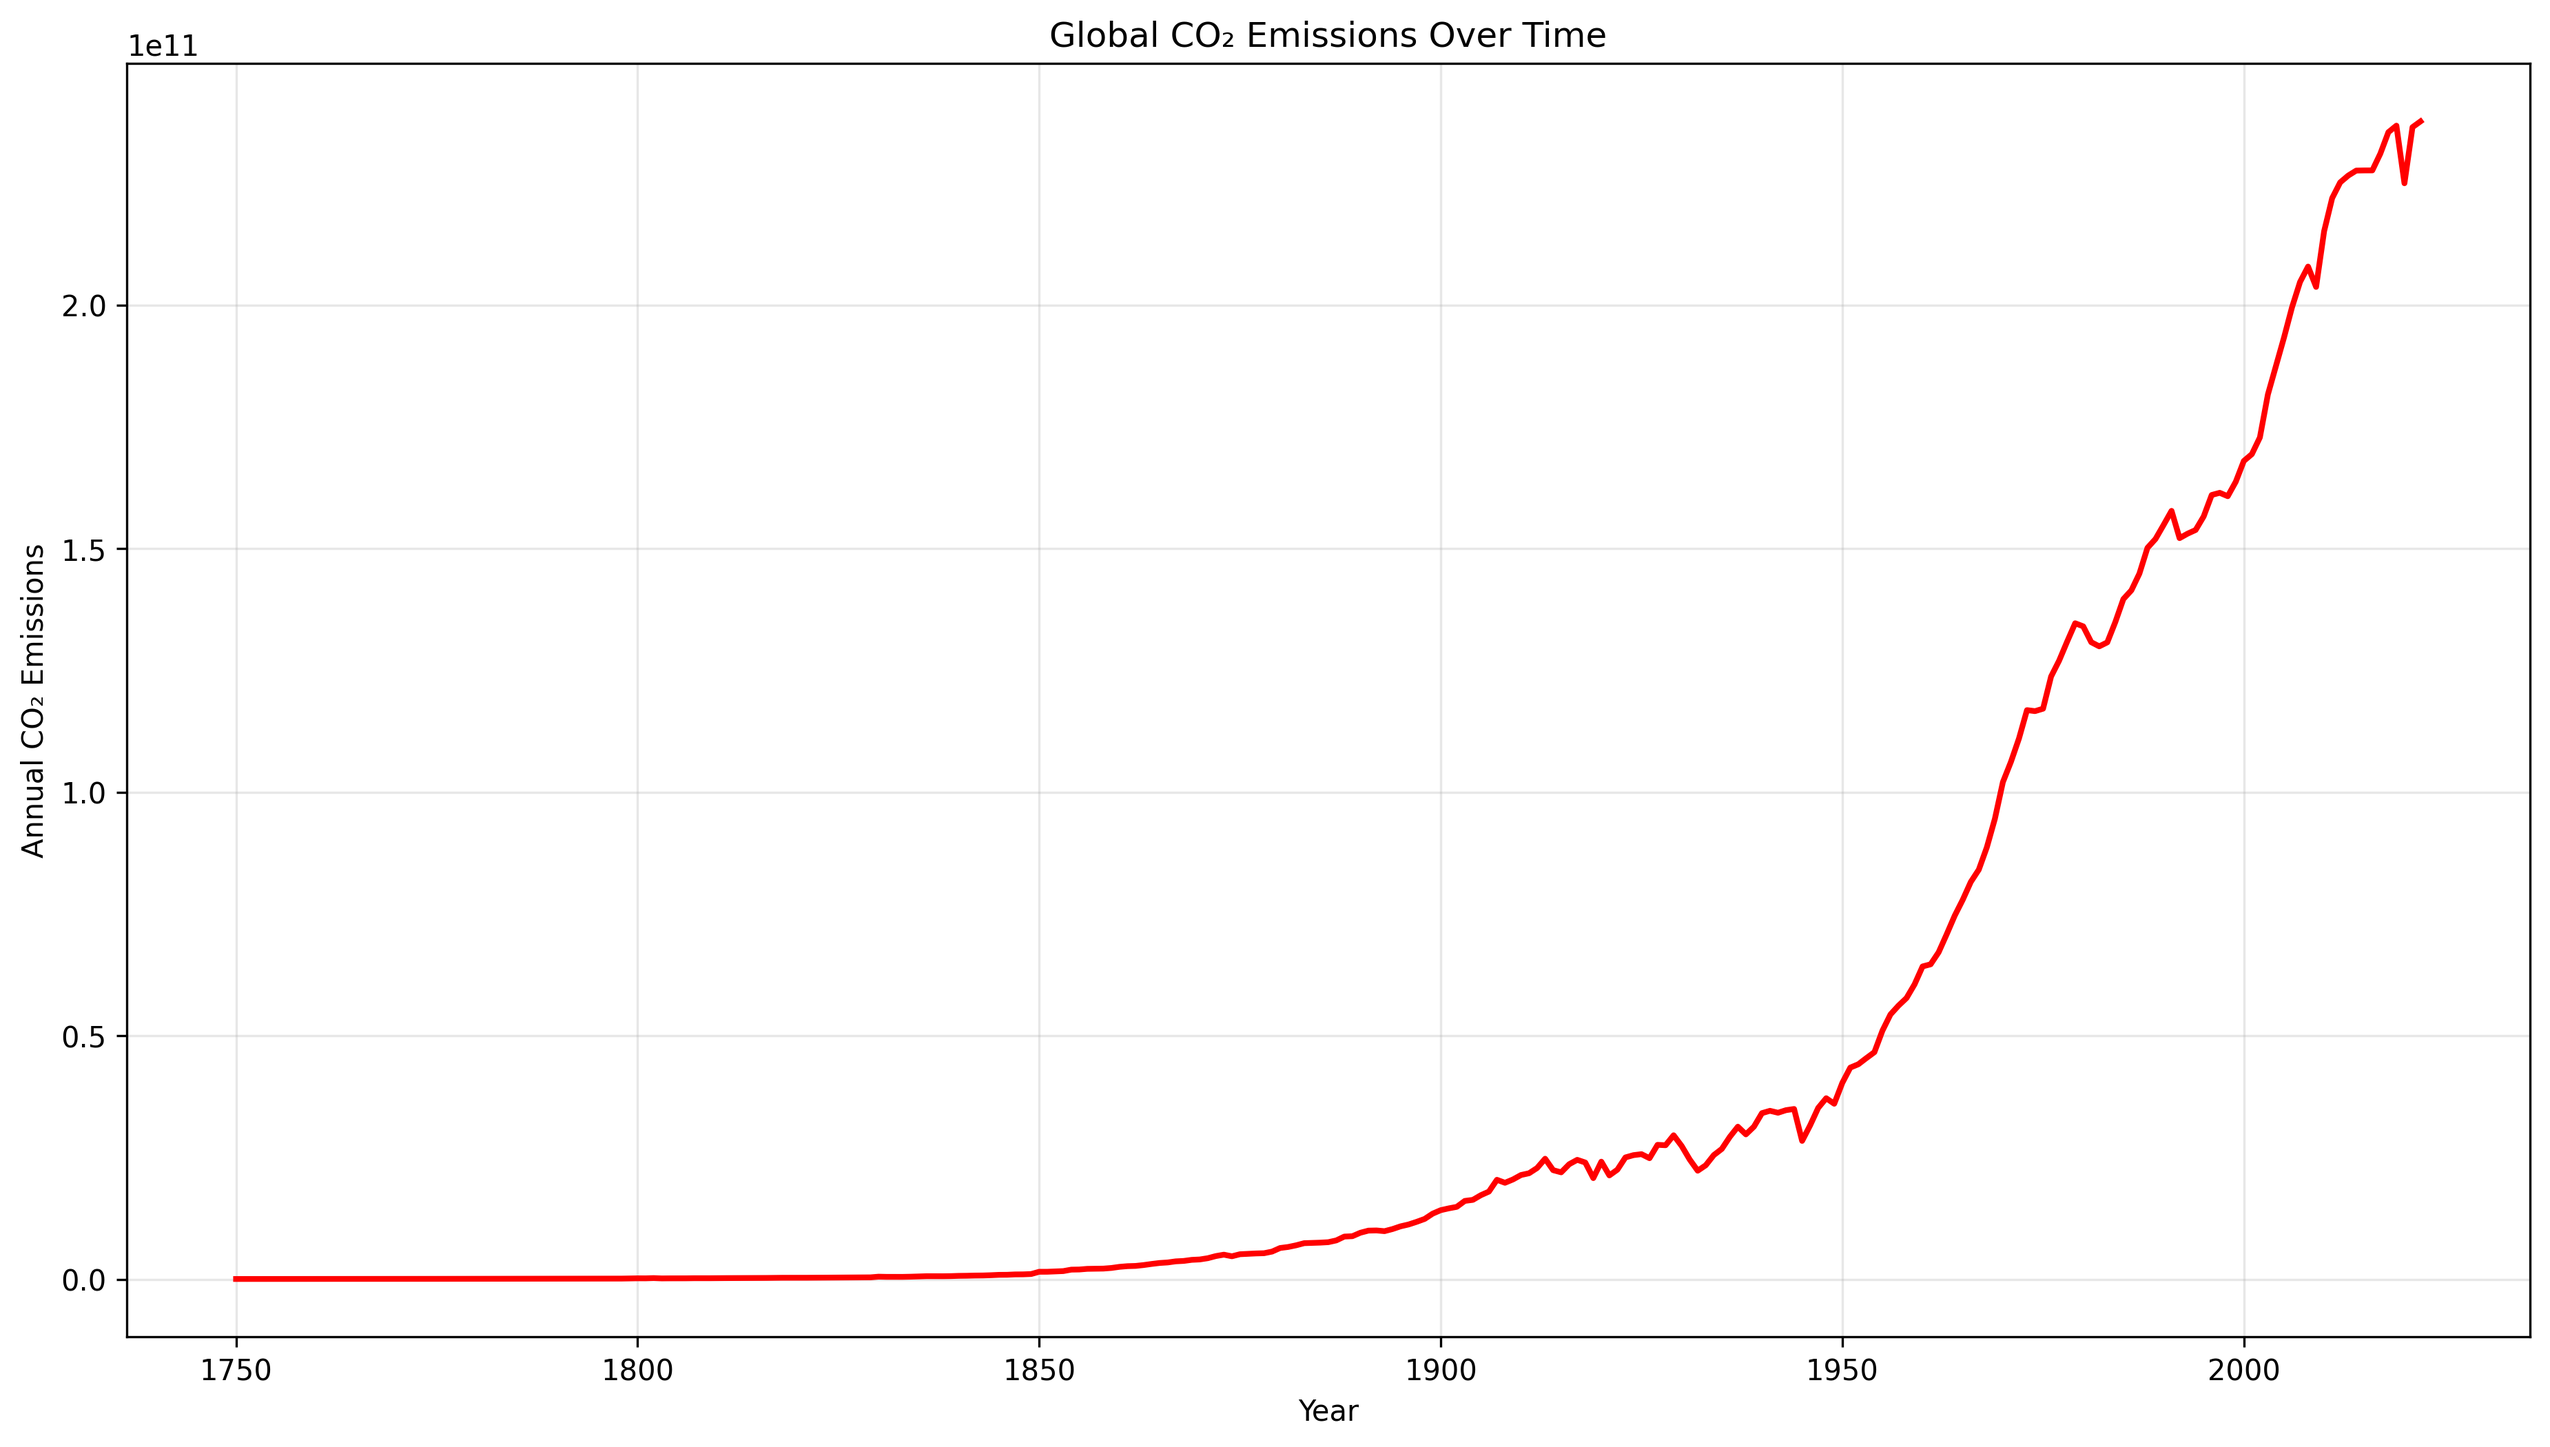
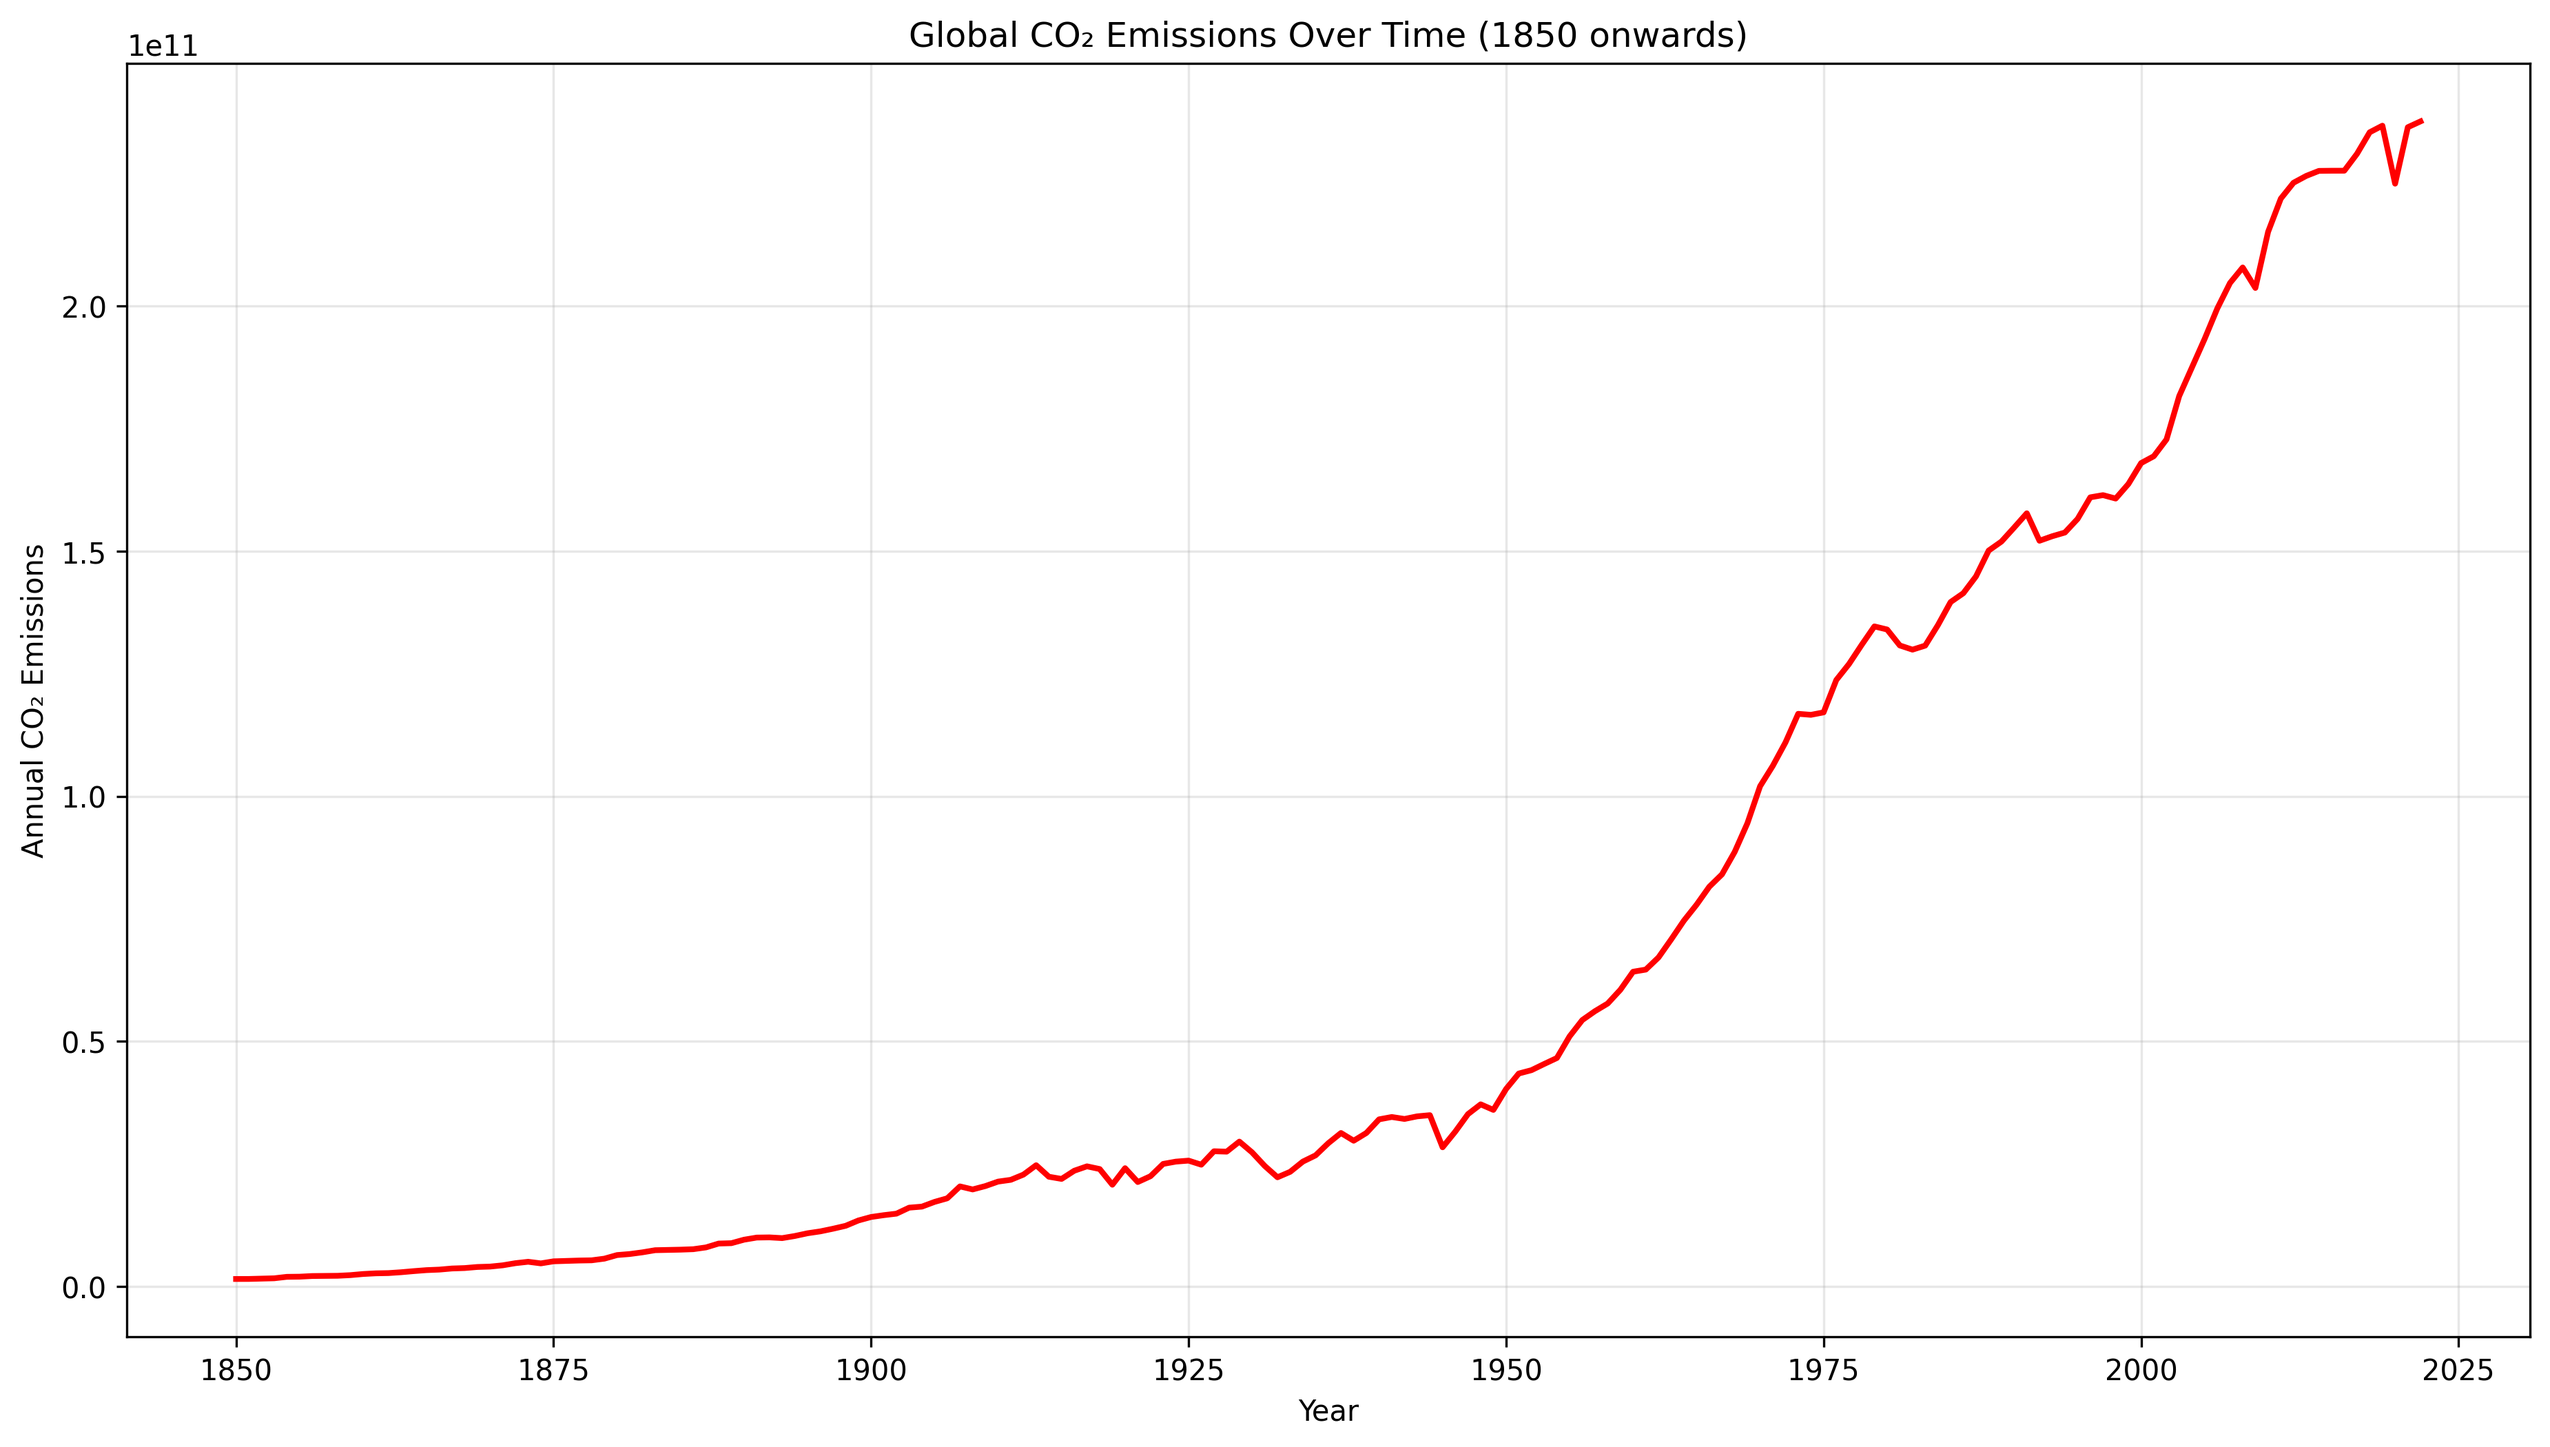
Updated charts with RA

diff --git a/tempCO2.py b/tempCO2.py
@@ -100,6 +100,9 @@ def prepare_emissions_data(emissions_df):
 
 # [Rest of the functions remain the same as in your current script]
 def create_temperature_plot(yearly_temp):
+    # Filter data from 1850 onwards
+    yearly_temp = yearly_temp[yearly_temp['Year'] >= 1850].copy()
+    
     plt.figure(figsize=(15, 8))
     
     # Define a color palette for continents
@@ -144,7 +147,7 @@ def create_temperature_plot(yearly_temp):
     plt.axhline(y=baseline_temp, color='gray', linestyle=':', 
                 label='Pre-industrial baseline (1850-1900)', alpha=0.5)
     
-    plt.title('Average Temperature by Continent Over Time')
+    plt.title('Average Temperature by Continent Over Time (1850 onwards)')
     plt.xlabel('Year')
     plt.ylabel('Average Temperature (°C)')
     plt.legend(bbox_to_anchor=(1.05, 1), loc='upper left')
@@ -153,12 +156,15 @@ def create_temperature_plot(yearly_temp):
     return plt
 
 def create_emissions_plot(yearly_emissions):
+    # Filter data from 1850 onwards
+    yearly_emissions = yearly_emissions[yearly_emissions['Year'] >= 1850].copy()
+    
     plt.figure(figsize=(15, 8))
     
     plt.plot(yearly_emissions['Year'], yearly_emissions['Annual CO₂ emissions'], 
             color='red', linewidth=2)
     
-    plt.title('Global CO₂ Emissions Over Time')
+    plt.title('Global CO₂ Emissions Over Time (1850 onwards)')
     plt.xlabel('Year')
     plt.ylabel('Annual CO₂ Emissions')
     plt.grid(True, alpha=0.3)
@@ -166,6 +172,10 @@ def create_emissions_plot(yearly_emissions):
     return plt
 
 def create_combined_plot(yearly_temp, yearly_emissions):
+    # Filter data from 1850 onwards
+    yearly_temp = yearly_temp[yearly_temp['Year'] >= 1850].copy()
+    yearly_emissions = yearly_emissions[yearly_emissions['Year'] >= 1850].copy()
+    
     fig, ax1 = plt.subplots(figsize=(15, 8))
     
     # Define colors for continents
@@ -219,7 +229,7 @@ def create_combined_plot(yearly_temp, yearly_emissions):
     ax2.set_ylabel('Annual CO₂ Emissions', color='red')
     ax2.tick_params(axis='y', labelcolor='red')
     
-    plt.title('Temperature by Continent and CO₂ Emissions Over Time')
+    plt.title('Temperature by Continent and CO₂ Emissions Over Time (1850 onwards)')
     
     # Combine legends
     lines1, labels1 = ax1.get_legend_handles_labels()
@@ -229,9 +239,28 @@ def create_combined_plot(yearly_temp, yearly_emissions):
     return plt
 
 def create_future_projections_plot(yearly_temp, yearly_emissions):
+    # Filter data from 1850 onwards
+    yearly_temp = yearly_temp[yearly_temp['Year'] >= 1850].copy()
+    yearly_emissions = yearly_emissions[yearly_emissions['Year'] >= 1850].copy()
+    
+    # Prepare regression models
+    global_temp = yearly_temp[yearly_temp['Continent'] == 'Global Average']
+    
+    # Prepare data for regression
+    X_temp = global_temp[['Year']].values
+    y_temp = global_temp['AverageTemperature'].values
+    X_emissions = yearly_emissions[['Year']].values
+    y_emissions = yearly_emissions['Annual CO₂ emissions'].values
+    
+    # Create and fit models
+    temp_model = LinearRegression()
+    temp_model.fit(X_temp, y_temp)
+    emissions_model = LinearRegression()
+    emissions_model.fit(X_emissions, y_emissions)
+    
     fig, ax1 = plt.subplots(figsize=(15, 8))
     
-    # Colors and baseline definitions remain the same
+    # Colors and baseline definitions
     colors = {
         'Europe': '#1f77b4',
         'Asia': '#ff7f0e',
@@ -243,43 +272,43 @@ def create_future_projections_plot(yearly_temp, yearly_emissions):
     }
     
     # Get baseline temperature (1850-1900 average)
-    global_data = yearly_temp[yearly_temp['Continent'] == 'Global Average']
-    baseline_temp = global_data[
-        (global_data['Year'] >= 1850) & 
-        (global_data['Year'] <= 1900)
+    baseline_temp = global_temp[
+        (global_temp['Year'] >= 1850) & 
+        (global_temp['Year'] <= 1900)
     ]['AverageTemperature'].mean()
     
-    # Calculate 2-degree and 1.5-degree rise lines
+    # Calculate threshold lines
     two_degree_line = baseline_temp + 2
     one_five_degree_line = baseline_temp + 1.5
     
-    # Get last years from data and set projection periods
-    last_temp_year = global_data['Year'].max()  # 2013
-    last_emissions_year = yearly_emissions['Year'].max()  # 2022
+    # Get last years and set projection period
+    last_temp_year = global_temp['Year'].max()
+    last_emissions_year = yearly_emissions['Year'].max()
     projection_end = 2100
     
-    # Create separate projection years for temp and emissions
-    temp_projection_years = list(range(last_temp_year, projection_end + 1))
-    emissions_projection_years = list(range(last_emissions_year, projection_end + 1))
+    # Create projection years arrays
+    temp_projection_years = np.array(range(last_temp_year, projection_end + 1)).reshape(-1, 1)
+    emissions_projection_years = np.array(range(last_emissions_year, projection_end + 1)).reshape(-1, 1)
     
-    # Get the most recent values
-    recent_global_temp = global_data[global_data['Year'] == last_temp_year]['AverageTemperature'].iloc[0]
+    # Get regression-based projections
+    temp_regression_pred = temp_model.predict(temp_projection_years)
+    emissions_regression_pred = emissions_model.predict(emissions_projection_years)
+    
+    # Calculate current rate projections (original method)
+    recent_global_temp = global_temp[global_temp['Year'] == last_temp_year]['AverageTemperature'].iloc[0]
     recent_emissions = yearly_emissions[yearly_emissions['Year'] == last_emissions_year]['Annual CO₂ emissions'].iloc[0]
     
-    # Calculate historical rates of change
-    last_30_years = global_data[global_data['Year'] >= last_temp_year - 30]
+    last_30_years = global_temp[global_temp['Year'] >= last_temp_year - 30]
     temp_change_rate = (last_30_years['AverageTemperature'].iloc[-1] - 
                        last_30_years['AverageTemperature'].iloc[0]) / 30
     
-    # Adjust rates for projections
     temp_increase_rate = temp_change_rate * 0.85
     emission_increase_rate = recent_emissions * 0.005
     
-    # Create projection data
-    projected_temps = [recent_global_temp + temp_increase_rate * (year - last_temp_year) 
-                      for year in temp_projection_years]
-    projected_emissions = [recent_emissions + emission_increase_rate * (year - last_emissions_year) 
-                         for year in emissions_projection_years]
+    current_rate_temps = [recent_global_temp + temp_increase_rate * (year - last_temp_year) 
+                         for year in temp_projection_years.flatten()]
+    current_rate_emissions = [recent_emissions + emission_increase_rate * (year - last_emissions_year) 
+                            for year in emissions_projection_years.flatten()]
     
     # Plot historical temperature data
     for continent in yearly_temp['Continent'].unique():
@@ -291,11 +320,13 @@ def create_future_projections_plot(yearly_temp, yearly_emissions):
             ax1.plot(continent_data['Year'], continent_data['AverageTemperature'],
                     label=f'Historical {continent}', color=colors[continent], alpha=0.5)
     
-    # Plot projected global temperature
-    ax1.plot(temp_projection_years, projected_temps, '--', color='black', 
-             label=f'Projected Global Average (from {last_temp_year})', linewidth=2)
+    # Plot both types of temperature projections
+    # ax1.plot(temp_projection_years, current_rate_temps, '--', color='black', 
+    #          label=f'Rate-based Projection (from {last_temp_year})', linewidth=2)
+    ax1.plot(temp_projection_years, temp_regression_pred, ':', color='purple', 
+             label=f'Regression-based Temp Projection (from {last_temp_year})', linewidth=2)
     
-    # Add temperature threshold lines
+    # Add threshold lines
     ax1.axhline(y=two_degree_line, color='red', linestyle='--', 
                 label='+2°C threshold', linewidth=2)
     ax1.axhline(y=one_five_degree_line, color='orange', linestyle='--', 
@@ -312,14 +343,16 @@ def create_future_projections_plot(yearly_temp, yearly_emissions):
     # Historical emissions
     ax2.plot(yearly_emissions['Year'], yearly_emissions['Annual CO₂ emissions'],
             color='red', linewidth=2, label='Historical CO₂ Emissions')
-    # Projected emissions
-    ax2.plot(emissions_projection_years, projected_emissions, '--', color='red', 
-             label=f'Projected CO₂ Emissions (from {last_emissions_year})', linewidth=2)
+    # Both types of emissions projections
+    # ax2.plot(emissions_projection_years, current_rate_emissions, '--', color='red', 
+    #          label=f'Rate-based Emissions Projection (from {last_emissions_year})', alpha=0.7)
+    ax2.plot(emissions_projection_years, emissions_regression_pred, ':', color='red', 
+             label=f'Regression-based Emissions Projection (from {last_emissions_year})', alpha=0.7)
     
     ax2.set_ylabel('Annual CO₂ Emissions', color='red')
     ax2.tick_params(axis='y', labelcolor='red')
     
-    plt.title(f'Historical Data and Future Projections\nTemperature (from {last_temp_year}) and CO₂ Emissions (from {last_emissions_year})')
+    plt.title(f'Historical Data and Future Projections (1850-2100)\nComparing Rate-based and Regression-based Projections')
     
     # Add vertical lines for last data years
     plt.axvline(x=last_temp_year, color='blue', linestyle='--', alpha=0.5, 
